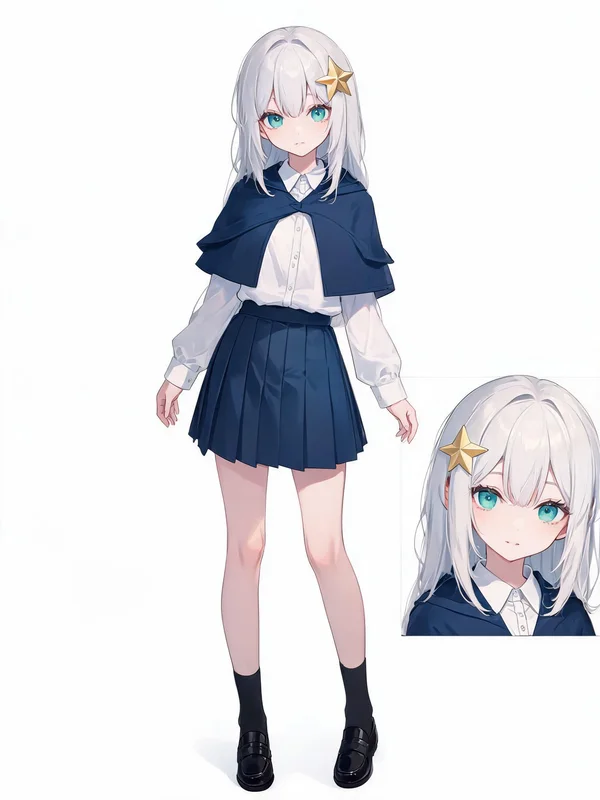
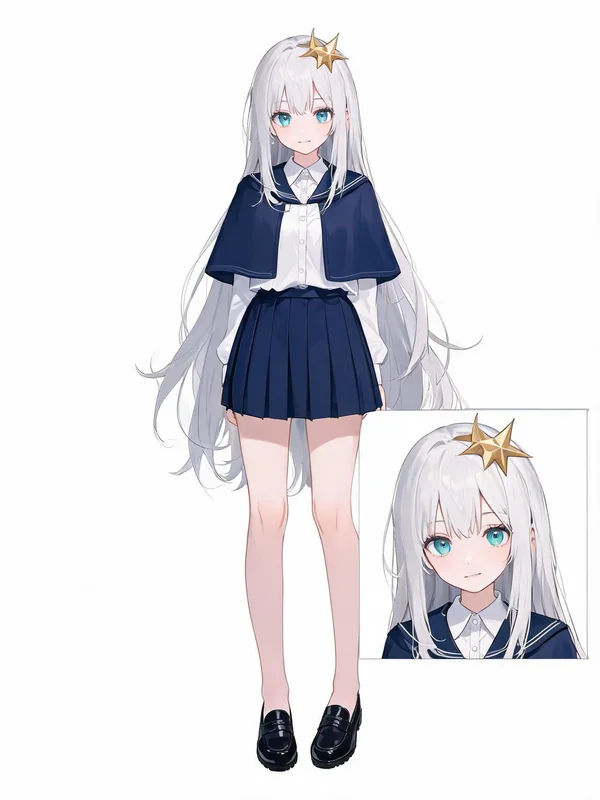
fix(cards): 真人路画风锁死成真实摄影 + 只有头肩参考也出全身立绘
主人真机实测：真人扫脸授权后，同一张自拍出的「面部特写」是照片、「全身立绘」却是厚涂二次元。

画风：STYLE_CLAUSE 是条件句（照片则写实、插画则插画），由模型自己判参考图是哪种。
本机对照（Seedream 4.0，与 App 同参）：清晰参考 14/14 写实；把自拍缩到 300×400
再拉回、JPEG q55（扫脸留下的那种）后 4 张里 2 张飘成 CG/厚涂感。全身那一格要模型
编出参考里没有的身体，飘得最厉害。已知真人（realPerson）就传 slotPrompt 的
realPhoto（必填，漏传零症状）换成无条件的 PHOTO_LOCK_CLAUSE：降质参考 4/4 写实。
画风句一律接在构图正文之后——挪到前面「全身」就丢（1 头肩 + 3 半身）。

构图：老句「全身完整可见，站姿自然」只有头肩参考时约半数出半身。改成点名鞋子、
头顶脚下留白、不裁切（FULL_BODY_PROMPT，clean/specsheet 共用一份）：降质自拍 4/4、
清晰自拍 4/4、动漫头肩 3/3 从头到鞋。垫白底当参考 0/4 无效；「参考图只提供了脸」
这类断言会带偏带身体的参考，没采用。示例图 clean.webp 按新句重出。

Changed region(s): [[0.24, 0.0312, 1.0, 1.0]]

diff --git a/src/data/promptSchemes.ts b/src/data/promptSchemes.ts
@@ -8,6 +8,10 @@
 //   ① **风格跟随参考图**：提示词里绝不点名画风。真人截图出写实立绘、动漫截图出同风格插画
 //      （2026-08-24 华强截图实测：写实版与动漫版各一发，Seedream i2i 对真人照片放行）。
 //      开放给方案作者的下场就是"真人被动漫化"那个已经修过一次的 bug 卷土重来。
+//      ★ 2026-09-04 补一档：调用方**已经知道**参考图是真人照片时（真人素材扫脸那条路、
+//        圈选提卡勾了「这是真人」），画风句换成**无条件**的照片锁定（`slotPrompt` 的
+//        `realPhoto`），不再让模型自己判"这是不是照片" —— 主人真机实测：同一张授权自拍，
+//        「面部特写」出的是照片、「全身立绘」出的是厚涂二次元。机理与实测数见 PHOTO_LOCK_CLAUSE。
 //   ② **合成规格图一律 `role:"display"`**：方舟提示词指南原文「多视图素材包含同一人物的
 //      不同角度，模型易将其识别为多个不同主体，反而加剧 ID 漂移」。三视图/分栏设定稿
 //      对人极有用、对模型有害 —— 让它进管线是**主动把画面变差**，还要为它收出片的钱。
@@ -80,11 +84,33 @@ export interface PromptScheme {
 }
 
 /**
- * 风格那句 —— **全仓唯一一处**，拼在每个图位的提示词前面（文件头 ★★★①）。
- * 方案作者的正文接在它后面，改不了也删不掉。
+ * 风格那句 —— **全仓唯一一处**，拼在每个图位的提示词**后面**（文件头 ★★★①）。
+ * 方案作者的正文在它前面，改不了也删不掉。
+ *
+ * ★ "画风句在正文之后"是量出来的，别换位置（2026-09-04 Seedream 4.0 实测，白底黑 T
+ *   头肩照当参考、各写法两发）：把画风句挪到正文**前面**，「全身立绘」的"全身"就丢了 ——
+ *   四张里一张头肩、三张半身；留在后面全身 2/2。构图句在前、画风句在后。
  */
 const STYLE_CLAUSE =
   "严格保持参考图的画风（照片则照片级写实，插画则同风格插画）与人物相貌、发型、服装、神态完全一致";
+
+/**
+ * 调用方**已知**参考图是真人照片时用的锁定句 —— **无条件**，不给模型判断的余地。
+ *
+ * ★★ 为什么 STYLE_CLAUSE 那句条件句不够（2026-09-04 主人真机 + 本机复现）：那句是
+ *   "照片则写实、插画则插画"，**由模型自己判参考图是哪种**。参考图是清晰照片时它判得对
+ *   （本机合成的白底头肩照 / 室内自拍两种参考，现行写法 14/14 写实）；参考图是低清、重压缩、
+ *   开过美颜的自拍（扫脸流程留下的正是这种：把同一张自拍缩到 300×400 再拉回来、JPEG q55）
+ *   时，4 张里 2 张飘成光滑的 CG/厚涂感。而「全身立绘」这一格要模型**编出**参考图里根本
+ *   没有的整个身体，飘的空间最大；「面部特写」几乎是把参考图重画一遍 —— 于是同一张参考下
+ *   特写是照片、全身是二次元，正是主人看到的那一幕。既然真人这条路上"参考图是照片"是
+ *   已知事实，就直接说死，别让模型猜。
+ * ⚠ 只在 `realPhoto` 为真时用：动漫截图拼上它就是老 bug 的反向版（动漫被真人化）。
+ * ⚠ 仍然接在正文**后面**（理由见 STYLE_CLAUSE 那条 ★）。
+ */
+const PHOTO_LOCK_CLAUSE =
+  "参考图是真人照片：成品必须是真实摄影照片（真人写实质感、真实皮肤纹理与布料质感），" +
+  "绝不能画成插画、动漫、厚涂或任何绘画风格；人物相貌、发型、服装、神态与参考图完全一致";
 
 /** 占位符：用户在命名屏写的那句描述插进这里 */
 const SUBJECT_TOKEN = /\{\{\s*主体\s*\}\}/g;
@@ -92,10 +118,14 @@ const SUBJECT_TOKEN = /\{\{\s*主体\s*\}\}/g;
 /**
  * 一个图位的**最终提示词**。唯一实现 —— 调用点不许自己拼（拼第二份就等于给了作者
  * 覆盖风格那句的口子，而那正是"真人被动漫化"的复发路径）。
+ *
+ * ★ `realPhoto` **必填**（不是 `?:`）：漏传零症状 —— 退回条件句，真人路又开始随参考图
+ *   质量飘，而屏幕上什么都不会报。调用方拿它的 `realPerson` 状态传（两条路各一处：
+ *   CustomCardPage.runAiForge / VideoCardAnnotator.makePortraits）。
  */
-export function slotPrompt(slot: SchemeSlot, subject?: string): string {
+export function slotPrompt(slot: SchemeSlot, subject: string | undefined, o: { realPhoto: boolean }): string {
   const body = slot.prompt.replace(SUBJECT_TOKEN, (subject || "").trim());
-  return `${body}；${STYLE_CLAUSE}`;
+  return `${body}；${o.realPhoto ? PHOTO_LOCK_CLAUSE : STYLE_CLAUSE}`;
 }
 
 /** 这一格要不要调模型（= 要不要收钱）。唯一判据，economy 与生成侧共用 */
@@ -114,6 +144,24 @@ export function isGenerated(slot: SchemeSlot): boolean {
 //   四张图由 design/gen-scheme-examples.mjs 出（真实 Seedream 产出，主人点名"不要美工示意"），
 //   脚本对下面的图位提示词做子串断言：改了提示词记得重出图，否则脚本会当场报错。
 
+/**
+ * 「全身立绘」这一格的正文 —— clean / specsheet 两套**共用一份**（此前各抄一份，改一处漏一处）。
+ *
+ * ★★ 措辞是量出来的（2026-09-04，Seedream 4.0，只有**头肩**参考的最难情形：降质自拍）：
+ *   老写法「全身完整可见，站姿自然」在只有头肩参考时约半数出半身（4 张里 1 张全身）——
+ *   参考图里没有身体，模型就顺着参考的取景画半身。点名**鞋子**、**头顶脚下留白**、
+ *   **不裁切**之后 8/8 从头到鞋（两种措辞各 4 张）。
+ * ⚠ 别写「参考图只提供了脸和发型」这类**对参考图的断言**：圈选提卡的参考常常带着身体，
+ *   那句会让模型丢掉参考里真有的服装。这里只描述产出，不描述参考。
+ * ⚠ 也试过把头肩照垫在白底画布顶部当参考（想喂"头在上、下面空"的版式）：0/4，模型不认。
+ * ⚠ 改了这句要同步 design/gen-scheme-examples.mjs 的 CLEAN_BODY（它对本文件做子串断言）。
+ */
+const FULL_BODY_PROMPT =
+  "参考图中人物的全身立绘：远景，从头顶到鞋底完整入镜，双脚和鞋子清晰可见，头顶上方与脚下各留出空白，" +
+  "身体任何部位都不裁切；纯白色背景，无任何背景元素与文字；站姿自然，正面朝向镜头";
+/** 「面部特写」那一格的正文，同样两套共用 */
+const FACE_PROMPT = "参考图中人物的面部特写肖像：纯白色背景，无任何背景元素与文字；头肩构图，五官清晰";
+
 export const BUILTIN_SCHEMES: readonly PromptScheme[] = [
   {
     id: "scheme_clean",
@@ -126,13 +174,13 @@ export const BUILTIN_SCHEMES: readonly PromptScheme[] = [
       {
         tag: "全身立绘",
         role: "primary",
-        prompt: "参考图中人物的全身立绘：纯白色背景，无任何背景元素与文字；全身完整可见，站姿自然",
+        prompt: FULL_BODY_PROMPT,
       },
       {
         tag: "面部特写",
         role: "face",
         ref: "face",
-        prompt: "参考图中人物的面部特写肖像：纯白色背景，无任何背景元素与文字；头肩构图，五官清晰",
+        prompt: FACE_PROMPT,
       },
       // ★ 原片裁剪降级保留：AI 立绘再像也是重画的，出片对不上时它是唯一的对照物。
       //   不计费（fromCrop），也不进模型（display）。
@@ -185,12 +233,12 @@ export const BUILTIN_SCHEMES: readonly PromptScheme[] = [
         tag: "面部特写",
         role: "face",
         ref: "face",
-        prompt: "参考图中人物的面部特写肖像：纯白色背景，无任何背景元素与文字；头肩构图，五官清晰",
+        prompt: FACE_PROMPT,
       },
       {
         tag: "全身立绘",
         role: "primary",
-        prompt: "参考图中人物的全身立绘：纯白色背景，无任何背景元素与文字；全身完整可见，站姿自然",
+        prompt: FULL_BODY_PROMPT,
       },
       {
         tag: "设定规格稿",

diff --git a/src/ai/real.ts b/src/ai/real.ts
@@ -107,6 +107,8 @@ async function genImageAsDataUrl(
  * ★ 串行不并行：Seedream 顶档一张可到 70 秒，几张并发在限流上撞车得不偿失；
  *   而且逐格报进度（onProgress）用户才知道自己在等第几张。
  * ★ 失败**整发抛**、不吞：调用方（命名屏）拿它写整句 err 并保住原裁剪（铁律八）。
+ * ★ `realPhoto` 必填：真人那条路上画风句换成无条件的照片锁定（`promptSchemes.PHOTO_LOCK_CLAUSE`
+ *   的 ★★ 写了为什么条件句不够）。写成可选的话漏传零症状 —— 全身立绘又开始随参考图质量飘。
  */
 export async function portraitViews(o: {
   scheme: PromptScheme;
@@ -114,6 +116,8 @@ export async function portraitViews(o: {
   faceCrop?: string | null;
   /** 用户写的那句描述，插进方案的 {{主体}} 占位符 */
   subject?: string;
+  /** 调用方已知参考图是真人照片（用户走了真人路 / 勾了「这是真人」）。传 `realPerson` 状态 */
+  realPhoto: boolean;
   onProgress?: (s: string) => void;
 }): Promise<{ role: CardRole; tag: string; dataUrl: string }[]> {
   const out: { role: CardRole; tag: string; dataUrl: string }[] = [];
@@ -127,7 +131,7 @@ export async function portraitViews(o: {
     }
     o.onProgress?.(`绘制${slot.tag}…（${i + 1}/${slots.length}）`);
     const ref = slot.ref === "face" ? o.faceCrop || o.bodyCrop : o.bodyCrop;
-    const dataUrl = await genImageAsDataUrl(schemeSlotPrompt(slot, o.subject), {
+    const dataUrl = await genImageAsDataUrl(schemeSlotPrompt(slot, o.subject, { realPhoto: o.realPhoto }), {
       imageRefs: [ref],
       size: slotSize(slot),
     });

diff --git a/src/pages/CustomCardPage.tsx b/src/pages/CustomCardPage.tsx
@@ -510,6 +510,10 @@ export default function CustomCardPage() {
         bodyCrop: aiBody.dataUrl,
         faceCrop: aiFace?.dataUrl ?? null,
         subject: aiSubject.trim() || undefined,
+        // ★ 真人路（扫脸认证）上参考图是照片是已知事实：画风句锁死成"真实摄影"，不让模型
+        //   自己判 —— 2026-09-04 主人实测授权自拍出的「全身立绘」是厚涂二次元（同一张参考的
+        //   「面部特写」却是照片），机理见 promptSchemes.PHOTO_LOCK_CLAUSE
+        realPhoto: realPerson,
         onProgress: setAiBusy,
       });
       if (AI_REAL) spendTokens(schemeCost(pageSlots)); // 图那一半：出齐才扣

diff --git a/src/components/VideoCardAnnotator.tsx b/src/components/VideoCardAnnotator.tsx
@@ -436,6 +436,8 @@ export default function VideoCardAnnotator({ deckMode, onClose }: { deckMode: bo
         bodyCrop: body.dataUrl,
         faceCrop: face?.dataUrl ?? null,
         subject: summary.trim() || name.trim(),
+        // 勾了「这是真人」= 参考图是照片是已知事实，画风句锁死（见 promptSchemes.PHOTO_LOCK_CLAUSE）
+        realPhoto: realPerson,
         onProgress: (s) => setBusy(s),
       });
       if (AI_REAL) spendTokens(price);

diff --git a/src/mock/ai.ts b/src/mock/ai.ts
@@ -110,6 +110,8 @@ export async function portraitViews(o: {
   bodyCrop: string;
   faceCrop?: string | null;
   subject?: string;
+  /** 与 real 同形：演示档不拼提示词，但类型上必填，调用点漏传在 tsc 就拦下 */
+  realPhoto: boolean;
   onProgress?: (s: string) => void;
 }): Promise<{ role: CardRole; tag: string; dataUrl: string }[]> {
   const out: { role: CardRole; tag: string; dataUrl: string }[] = [];

diff --git a/docs/card-prompt-scheme-market-design.md b/docs/card-prompt-scheme-market-design.md
@@ -60,7 +60,7 @@
 
 一套方案 = **N 个图位模板**，每个图位 `{ tag, role, size/aspect, promptTemplate }` + 方案级 `{ id, title, author, cardTypes[], coverExamples[], remoteId? }`。
 
-- **`promptTemplate`**：带占位符的提示词（如实操案例的 `{{角色类型}}`）。占位符=用户自定义 tag 的注入点。**必须硬编码那条"风格跟随参考图、不点名画风"**（`portraitViews` 现有那条实测结论）——方案作者可改构图/图位，但画风跟随源图这条不开放，否则又回到"动漫化真人"那个老坑。
+- **`promptTemplate`**：带占位符的提示词（如实操案例的 `{{角色类型}}`）。占位符=用户自定义 tag 的注入点。**必须硬编码那条"风格跟随参考图、不点名画风"**（`portraitViews` 现有那条实测结论）——方案作者可改构图/图位，但画风跟随源图这条不开放，否则又回到"动漫化真人"那个老坑。（2026-09-04 补：这条句子是**条件句**，由模型判参考图是不是照片；参考图低清/重压缩时它会判错。所以调用方已知是真人时走 `slotPrompt` 的 `realPhoto` 档 —— 无条件锁成真实摄影，见 `promptSchemes.PHOTO_LOCK_CLAUSE`。）
 - **市场基建直接复用模板市场那套**（`data/templates.ts` 的 mine/shared、`registerTemplate`、`refreshRemoteTemplate`）。⚠ CLAUDE.md 头号坑照搬：**服务端给 `PromptScheme` 加字段 = 本机那几跳（解析/类型/落库/mine+shared 刷新）四处一起改**，漏一处零报错走上一代逻辑。
 - **方案预览图**：作者出一次、存成 `coverExamples`，**不每次重画**（省钱、也让市场加载快）。
 
